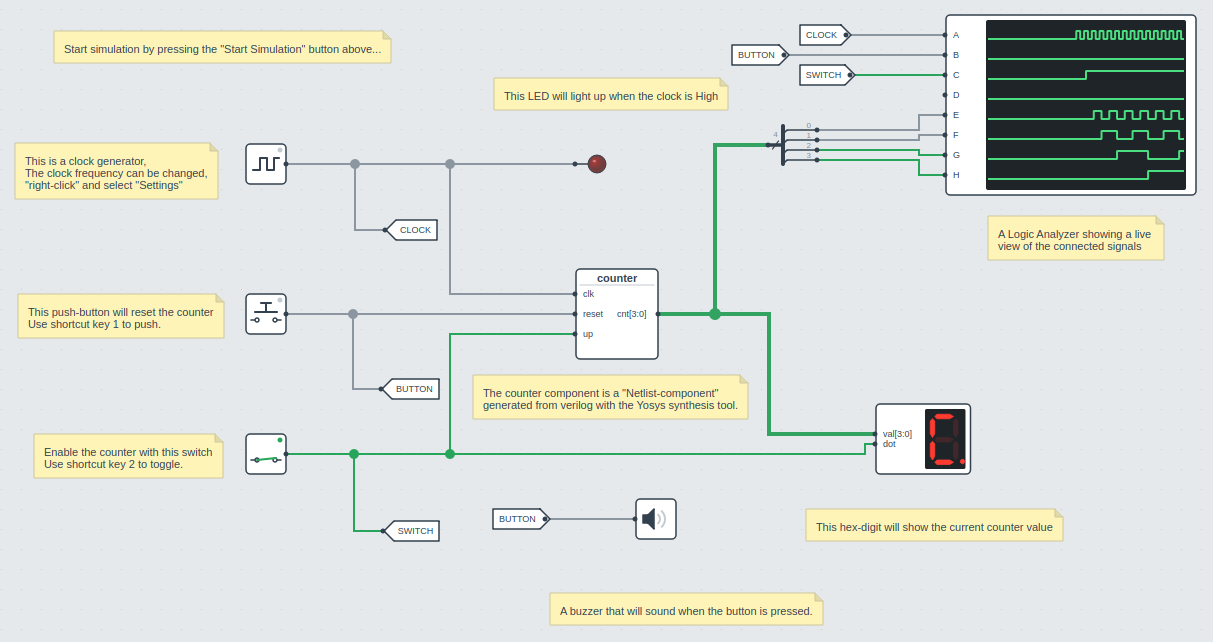
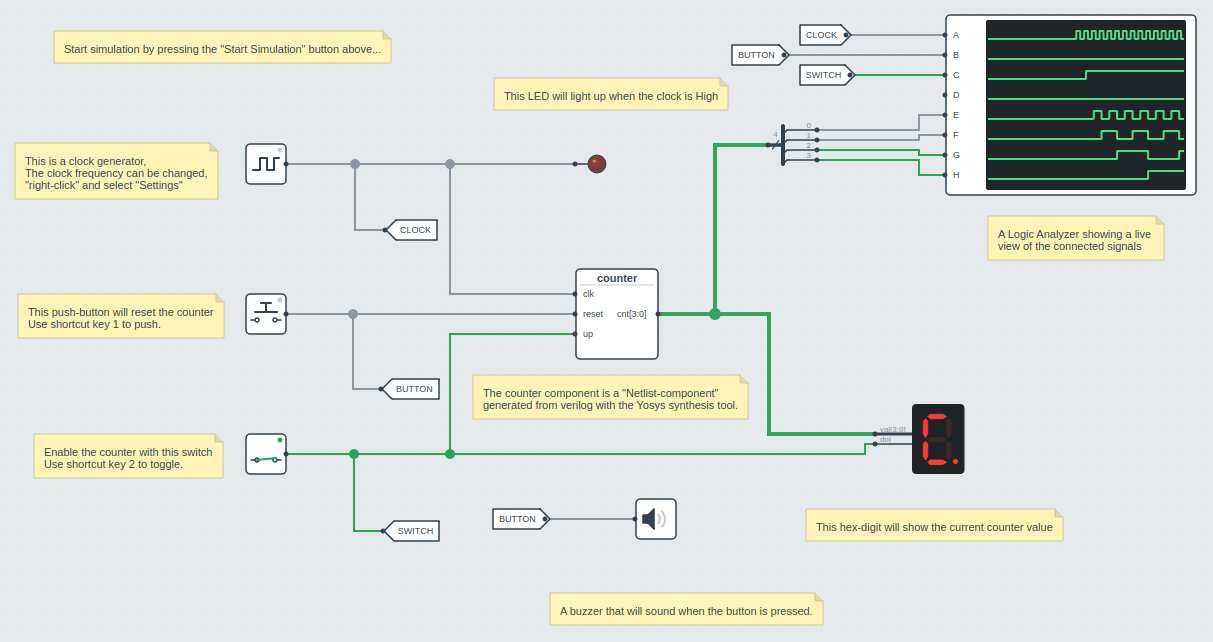
Draw the 7-segment and hex digits as a display without a body
A display is a part of its own, the white body around it was only a frame.
The inputs reach it through leads with their names on them, like the bits
of a bus splitter.

Changed region(s): [[0.7016, 0.6231, 0.8236, 0.7477]]

diff --git a/src/digsim/app/gui_objects/_seven_segment_object.py b/src/digsim/app/gui_objects/_seven_segment_object.py
@@ -8,7 +8,7 @@ from __future__ import annotations
 import typing
 from typing import TYPE_CHECKING
 
-from PySide6.QtCore import QPoint, QPointF, QRectF, QSize
+from PySide6.QtCore import QPoint, QPointF, QRectF, QSize, Qt
 from PySide6.QtGui import QPainter, QPainterPath
 
 from digsim.circuit.components import HexDigit, SevenSegment
@@ -23,7 +23,14 @@ if TYPE_CHECKING:
 
 
 class SevenSegmentObject(ComponentObject):
-    """The class for a 7-segment component placed in the GUI"""
+    """
+    A 7-segment digit: the display without a body, a lead from each input to it with the
+    name of the input on it
+    """
+
+    SHOW_PORT_NAMES = False
+    # From the display to the digits
+    DISPLAY_MARGIN = 6
 
     SEGMENT_TYPE_AND_POS: typing.ClassVar[dict[str, tuple[str, QPoint]]] = {
         "A": ("H", QPoint(3, 0)),
@@ -84,23 +91,51 @@ class SevenSegmentObject(ComponentObject):
         assert isinstance(component, (SevenSegment, HexDigit))
         return component
 
+    def lead_length(self) -> float:
+        """From the inputs to the display: room for the names of the inputs"""
+        longest = max((self._port_names[port] for port in self.component.inports()), key=len)
+        text_width, _ = self.get_string_metrics(longest, theme.font(6))
+        return text_width + 10
+
     def setup_size(self) -> None:
         """Setup the size of the component"""
-        str_pixels_w, _ = self.get_string_metrics("dot")
-        self.digit_left = self.inport_x_pos() + str_pixels_w + self.PORT_TO_RECT_MARGIN
-        self.width = (
-            self.digit_left + self.DIGIT_WIDTH * self.SCALE + self.RECT_TO_DIGIT_RECT_MARGIN
-        )
+        self.digit_left = self.lead_length()
+        self.width = self.digit_left + self.DIGIT_WIDTH * self.SCALE + 2 * self.DISPLAY_MARGIN
         self.update_ports()
 
-    def paint_component(self, painter: QPainter) -> None:
-        self.paint_component_base(painter)
-        digit_ypos = self.height / 2 - self.DIGIT_HEIGHT * self.SCALE / 2
+    def paint_display(self, painter: QPainter, segments: list[str]) -> None:
+        """The leads with the names of the inputs, the display and its digits"""
+        rect = QRectF(self.rect())
+        display = QRectF(rect.left() + self.digit_left, rect.top(), 0, rect.height())
+        display.setRight(rect.right())
+        for port in self.component.inports():
+            y = self.get_port_item(port).rect().center().y()
+            width = 3.0 if port.width > 1 else theme.LINE_WIDTH
+            theme.lead(painter, QPointF(rect.left() - 1, y), QPointF(display.left(), y), width)
+            theme.paint_text(
+                painter,
+                QRectF(rect.left() + 4, y - 9, self.digit_left - 6, 8),
+                self._port_names[port],
+                6,
+                theme.MUTED,
+                Qt.AlignmentFlag.AlignLeft,
+            )
+        painter.setRenderHint(QPainter.RenderHint.Antialiasing)
+        painter.setPen(theme.outline_pen(True) if self.selected else Qt.PenStyle.NoPen)
+        painter.setBrush(theme.DISPLAY)
+        painter.drawRoundedRect(display, theme.CORNER, theme.CORNER)
+        digits_width = len(segments) * self.DIGIT_WIDTH * self.SCALE
         self.paint_digits(
             painter,
-            QPointF(self.object_pos.x() + self.digit_left, self.object_pos.y() + digit_ypos),
-            [self.component.segments()],
+            QPointF(
+                display.center().x() - digits_width / 2,
+                display.center().y() - self.DIGIT_HEIGHT * self.SCALE / 2,
+            ),
+            segments,
         )
+
+    def paint_component(self, painter: QPainter) -> None:
+        self.paint_display(painter, [self.component.segments()])
 
     @classmethod
     def paint_digits(cls, painter: QPainter, pos: QPointF, segments: list[str]) -> None:
@@ -124,12 +159,20 @@ class SevenSegmentObject(ComponentObject):
         """Paint a digit (for the component selector)"""
         painter.save()
         painter.setRenderHint(QPainter.RenderHint.Antialiasing)
-        painter.translate(size.width() / 2, 10)
+        painter.translate(size.width() / 2 + 6, 10)
         painter.scale(0.58, 0.58)
         xpos = -cls.DIGIT_WIDTH / 2
-        theme.paint_body(painter, QRectF(xpos - 5, 0, cls.DIGIT_WIDTH + 10, cls.DIGIT_HEIGHT + 10))
-        cls.paint_digit_rect(painter, xpos, 5)
-        cls.draw_digit(painter, xpos, 5, segments)
+        for y in (20, 45, 70):
+            theme.lead(painter, QPointF(xpos - 34, y), QPointF(xpos - 6, y), 2.5)
+            painter.setPen(Qt.PenStyle.NoPen)
+            painter.setBrush(theme.INK)
+            painter.drawEllipse(QPointF(xpos - 34, y), 4, 4)
+        painter.setPen(Qt.PenStyle.NoPen)
+        painter.setBrush(theme.DISPLAY)
+        painter.drawRoundedRect(
+            QRectF(xpos - 6, -4, cls.DIGIT_WIDTH + 12, cls.DIGIT_HEIGHT + 8), 6, 6
+        )
+        cls.draw_digit(painter, xpos, 0, segments)
         painter.restore()
         cls.paint_selectable_component_name(painter, QPoint(0, 0), size, name)
 

diff --git a/src/digsim/app/gui_objects/_hexdigit_object.py b/src/digsim/app/gui_objects/_hexdigit_object.py
@@ -7,7 +7,7 @@ from __future__ import annotations
 
 from typing import TYPE_CHECKING
 
-from PySide6.QtCore import QPointF, QSize
+from PySide6.QtCore import QSize
 from PySide6.QtGui import QPainter
 
 from digsim.circuit.components import HexDigit
@@ -43,23 +43,16 @@ class HexDigitObject(SevenSegmentObject):
     def setup_size(self) -> None:
         """Setup the size of the component"""
         self.digits = self.component.get_digits()
-        str_pixels_w, _ = self.get_string_metrics(f"val[{4 * self.digits - 1}:0]")
-        self.digit_left = self.inport_x_pos() + str_pixels_w + self.PORT_TO_RECT_MARGIN
-        self.digit_top = self.RECT_TO_DIGIT_RECT_MARGIN
+        self.digit_left = self.lead_length()
         self.width = (
-            self.digit_left
-            + self.digits * self.DIGIT_WIDTH * self.SCALE
-            + self.RECT_TO_DIGIT_RECT_MARGIN
+            self.digit_left + self.digits * self.DIGIT_WIDTH * self.SCALE + 2 * self.DISPLAY_MARGIN
         )
         self.height = 2 * self.RECT_TO_DIGIT_RECT_MARGIN + self.DIGIT_HEIGHT * self.SCALE
         self.update_ports()
 
     def paint_component(self, painter: QPainter) -> None:
-        self.paint_component_base(painter)
-        self.paint_digits(
-            painter,
-            QPointF(self.object_pos.x() + self.digit_left, self.object_pos.y() + self.digit_top),
-            [self.component.segments(digit_id) for digit_id in range(self.digits)],
+        self.paint_display(
+            painter, [self.component.segments(digit_id) for digit_id in range(self.digits)]
         )
 
     @classmethod
